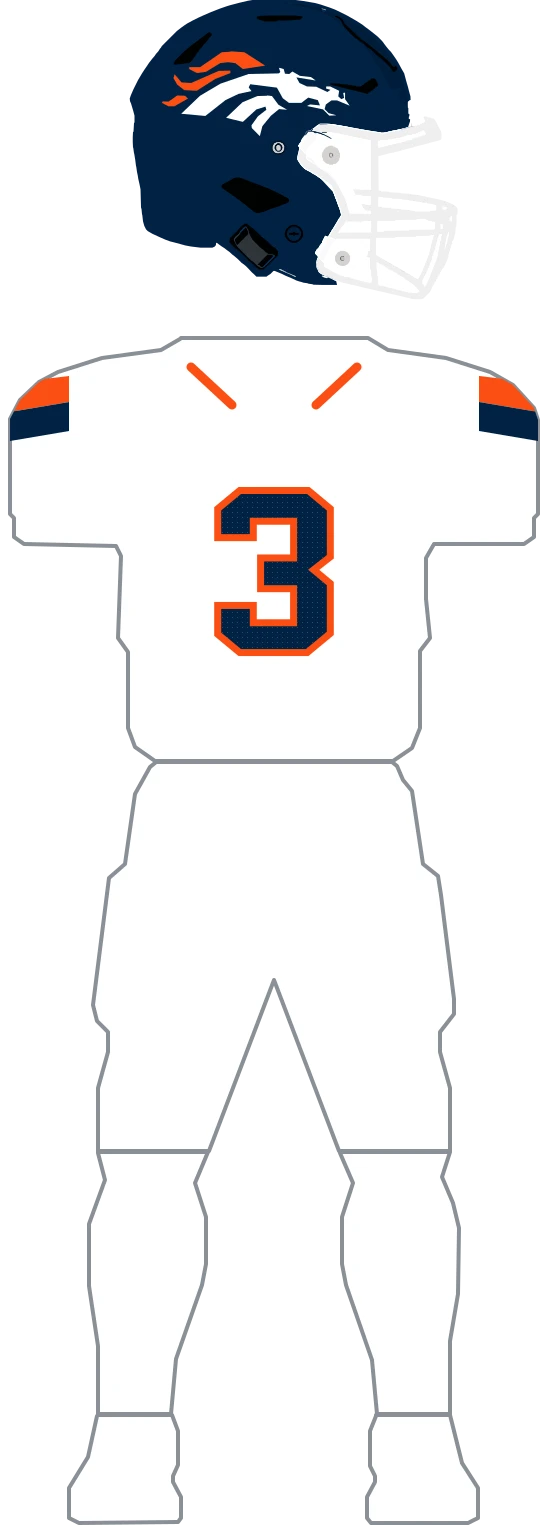
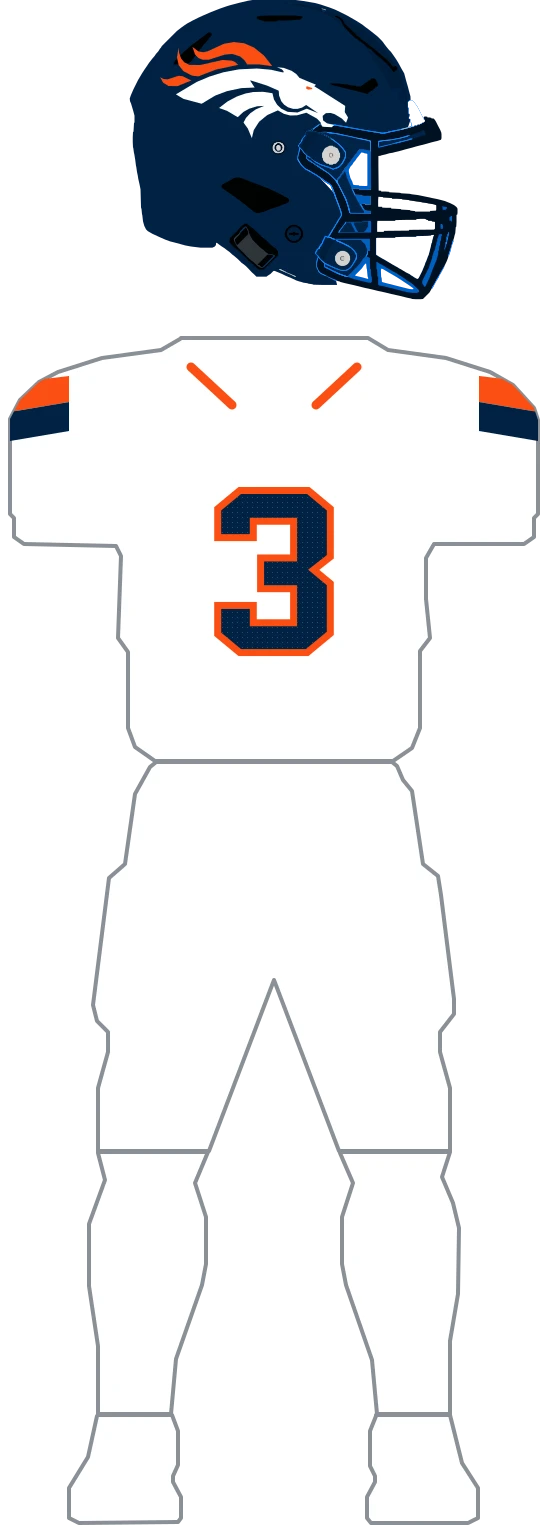
fix(uniforms): re-author Broncos helmet horse (#736)
* fix(uniforms): re-author Broncos helmet horse

* fix(uniforms): correct Broncos helmet details

* fix(uniforms): enlarge Broncos helmet eye

Changed region(s): [[0.3036, 0.0, 0.8196, 0.2143]]

diff --git a/lib/uniforms/teams/broncos.ts b/lib/uniforms/teams/broncos.ts
@@ -24,9 +24,11 @@ export const BRONCOS_WHITE = '#FFFFFF';
 //   - The "D" is a keyline case: white traced as the union of white AND orange, with the orange "D"
 //     painted over it. The white bucking horse inside survives for free.
 export const BRONCOS_DECAL_MANE_PATH =
-  'M341.0,170.6 L368.3,172.5 L409.8,199.2 L365.2,206.1 L350.3,194.3 L335.4,192.4 L319.9,194.3 L291.4,211.7 L273.5,214.1 L258.0,206.1 L258.0,202.3 L279.6,202.3 L323.0,172.5 L340.4,171.3 Z M339.8,208.5 L340.4,214.1 L310.0,225.9 L272.8,249.6 L248.0,248.3 L233.8,237.1 L226.4,224.1 L228.8,216.6 L242.5,232.8 L261.7,234.0 L316.8,209.8 L339.1,209.2 Z M233.8,258.9 L249.3,259.5 L255.5,265.1 L228.2,280.6 L216.4,280.6 L203.4,273.8 L204.7,270.7 L216.4,271.3 L233.2,259.5 Z';
+  'M346.3,152.0 L368.2,154.6 L387.5,163.1 L407.3,178.9 L424.0,200.3 L397.4,196.9 L373.8,196.9 L368.6,188.7 L360.1,181.1 L344.2,175.9 L329.2,177.2 L297.0,187.5 L285.0,187.5 L276.4,184.0 L269.5,176.8 L264.4,161.8 L276.4,170.8 L286.3,172.5 L295.3,170.4 L327.4,155.4 L345.9,152.4 Z M236.5,163.1 L237.8,174.2 L241.6,184.9 L248.1,192.6 L257.9,197.7 L279.4,198.1 L324.9,187.9 L342.9,189.2 L349.3,191.7 L355.8,197.7 L311.6,207.1 L276.0,220.8 L263.1,219.1 L245.9,210.1 L236.9,198.1 L233.5,183.2 L236.5,163.5 Z M235.6,219.5 L244.6,220.4 L262.2,228.9 L233.9,240.4 L216.3,240.0 L205.6,233.2 L200.0,222.5 L206.4,225.9 L214.6,226.8 L235.2,219.9 Z';
+export const BRONCOS_DECAL_EYE_PATH =
+  'M493.1,240.4 L504.7,244.3 L502.5,246.4 L495.7,247.3 L491.4,244.7 L492.7,240.9 Z';
 export const BRONCOS_DECAL_HORSE_PATH =
-  'M438.3,203.6 L446.9,206.1 L449.4,215.4 L458.1,216.0 L464.3,211.0 L479.2,219.7 L501.5,222.2 L510.8,229.0 L472.3,222.8 L478.5,234.0 L493.4,240.9 L512.0,241.5 L534.3,252.0 L540.5,247.7 L531.8,245.2 L531.8,240.9 L539.9,240.9 L557.8,249.6 L556.0,260.7 L562.2,266.3 L567.8,263.8 L565.9,253.9 L569.6,253.3 L569.6,266.3 L578.9,279.4 L553.5,268.8 L542.4,268.8 L531.2,276.9 L528.7,286.2 L536.8,294.3 L552.3,298.6 L538.0,299.3 L525.6,286.8 L493.4,280.0 L499.6,276.9 L519.4,278.8 L515.1,268.2 L495.9,263.2 L482.3,273.8 L457.5,273.8 L445.1,264.5 L433.3,243.3 L380.0,236.5 L376.9,242.7 L382.5,250.2 L356.5,255.8 L330.5,268.2 L290.2,299.9 L241.9,295.5 L279.6,259.5 L320.5,235.3 L376.9,216.0 L437.0,214.8 L440.1,212.3 L437.6,204.2 Z M414.1,258.9 L423.4,260.1 L436.4,277.5 L453.8,287.5 L437.6,286.2 L421.5,299.3 L404.2,320.4 L399.2,340.3 L383.1,324.1 L382.5,318.5 L395.5,300.5 L412.2,287.5 L410.4,281.2 L392.4,286.8 L365.2,311.7 L331.7,303.6 L364.5,272.5 L394.3,260.1 L413.5,259.5 Z';
+  'M433.0,202.4 L446.7,203.7 L463.0,209.7 L472.5,216.5 L478.5,223.8 L511.5,237.5 L508.1,240.4 L569.9,279.8 L569.0,292.1 L575.5,302.8 L574.6,305.8 L571.6,313.5 L563.0,305.0 L548.9,296.4 L540.7,293.9 L531.3,294.3 L524.8,299.8 L525.7,308.8 L533.8,314.8 L547.6,318.2 L542.9,322.5 L526.6,321.6 L523.5,320.8 L520.5,312.7 L513.7,305.4 L492.2,293.4 L473.8,298.6 L460.0,299.0 L447.2,295.6 L435.2,288.7 L414.1,298.1 L397.8,311.4 L387.1,328.0 L383.2,344.3 L375.1,325.0 L366.5,313.1 L371.6,303.7 L379.8,294.7 L391.4,286.6 L407.7,279.8 L393.5,280.6 L378.1,285.3 L366.5,291.7 L354.9,302.4 L333.5,289.6 L317.6,284.0 L334.7,270.8 L353.2,261.0 L370.4,255.0 L386.2,252.0 L405.5,251.6 L424.4,254.5 L427.4,266.9 L433.9,277.6 L442.0,285.3 L454.9,291.7 L474.6,293.0 L493.1,285.3 L515.8,294.3 L491.8,278.0 L483.6,283.2 L474.6,285.7 L465.6,285.7 L455.7,282.7 L447.6,277.2 L442.0,270.4 L437.7,259.2 L436.9,249.4 L413.7,239.2 L381.1,228.9 L379.8,229.3 L388.8,243.0 L361.8,244.3 L333.5,250.3 L309.9,259.2 L282.8,275.5 L246.3,265.7 L231.3,256.7 L272.9,231.9 L298.3,221.2 L325.7,212.7 L357.5,206.7 L393.5,205.0 L421.4,207.5 L446.3,213.1 L446.7,210.5 L443.3,206.7 L433.4,202.4 Z';
 export const BRONCOS_CRUSH_DECAL_KEYLINE_PATH =
   'M329.2,147.6 L427.1,149.5 L332.9,149.5 L326.7,155.1 L326.7,176.9 L328.6,148.3 Z M334.2,152.6 L433.9,153.2 L458.1,160.1 L483.5,180.6 L496.5,204.2 L495.9,219.1 L492.8,204.2 L487.2,212.3 L475.4,212.3 L474.2,205.4 L467.4,205.4 L446.3,188.0 L432.7,182.4 L428.4,168.2 L399.2,168.2 L397.4,175.0 L382.5,175.0 L381.3,179.3 L388.7,181.8 L372.6,183.7 L373.8,214.8 L368.3,212.9 L365.8,216.6 L373.2,231.5 L382.5,234.0 L378.2,240.9 L382.5,258.9 L382.5,294.3 L440.1,297.4 L454.4,288.1 L460.0,296.2 L466.8,296.2 L466.8,299.9 L458.7,301.8 L459.3,317.9 L474.8,311.1 L489.7,290.6 L486.0,282.5 L480.4,296.2 L481.6,258.3 L467.4,248.3 L466.1,229.0 L474.8,227.2 L468.0,232.8 L485.4,234.0 L483.5,238.4 L491.6,243.3 L491.6,278.8 L495.9,274.4 L497.7,237.7 L496.5,278.1 L475.4,312.3 L457.5,324.1 L438.9,327.9 L332.3,327.2 L331.1,298.0 L348.4,292.4 L348.4,191.8 L344.1,184.9 L331.7,181.8 L333.6,153.2 Z M405.4,178.1 L412.2,179.3 L404.2,186.2 L411.0,190.5 L420.3,179.3 L421.5,193.6 L436.4,204.2 L435.8,207.3 L424.0,207.3 L412.2,199.8 L409.1,209.2 L426.5,228.4 L424.0,237.7 L440.1,246.4 L442.6,261.4 L448.8,263.8 L462.4,256.4 L471.7,261.4 L471.1,268.8 L464.9,261.4 L455.6,263.2 L440.7,276.3 L433.9,292.4 L394.9,292.4 L394.9,278.8 L399.2,271.9 L394.9,267.0 L393.7,247.1 L388.1,242.1 L395.5,235.3 L397.4,244.6 L406.0,237.7 L406.7,230.3 L389.9,215.4 L394.9,209.8 L402.9,214.8 L404.8,208.5 L399.9,200.5 L386.2,202.3 L384.4,197.4 L393.7,193.6 L388.1,184.9 L398.0,187.4 L404.8,178.7 Z M500.2,206.1 L502.1,236.5 L495.9,230.3 L473.6,223.5 L481.6,221.0 L495.9,224.7 L502.1,218.5 L500.2,206.7 Z';
 export const BRONCOS_CRUSH_DECAL_D_PATH =

diff --git a/lib/uniforms/teams/broncos.parts.ts b/lib/uniforms/teams/broncos.parts.ts
@@ -23,6 +23,7 @@ import {
   BRONCOS_CRUSH_BAND_TOP_LEFT,
   BRONCOS_CRUSH_BAND_TOP_RIGHT,
   BRONCOS_CRUSH_DECAL_D_PATH,
+  BRONCOS_DECAL_EYE_PATH,
   BRONCOS_CRUSH_DECAL_KEYLINE_PATH,
   BRONCOS_DECAL_HORSE_PATH,
   BRONCOS_DECAL_MANE_PATH,
@@ -85,6 +86,7 @@ function horseDecal(): PartLayer[] {
   return [
     fill('broncos-decal-under', 'helmet', BRONCOS_DECAL_MANE_PATH, 'orange'),
     fill('broncos-decal-over', 'helmet', BRONCOS_DECAL_HORSE_PATH, 'white'),
+    fill('broncos-decal-eye', 'helmet', BRONCOS_DECAL_EYE_PATH, 'orange'),
   ];
 }
 
@@ -98,11 +100,11 @@ function crushDecal(): PartLayer[] {
 
 // The modern navy shell with the horse decal — one object, shared by home, away and orange-alt.
 //
-// White cage. The modern navy shell wears a white facemask (named sources; also the classic
-// navy-helmet era). The white cage reads cleanly against the navy shell.
+// The current-season GUD helmet composite shows a navy facemask on every modern kit; the
+// Orange Crush reference below is the exception and retains its light cage.
 const HELMET_NAVY_HORSE: UniformPart = {
   base: 'navy',
-  facemask: 'white',
+  facemask: 'navy',
   layers: horseDecal(),
 };
 

diff --git a/scripts/uniform-draw/broncos_horse.py b/scripts/uniform-draw/broncos_horse.py
@@ -1,0 +1,114 @@
+"""Regenerates the Denver Broncos current helmet horse in ``broncos.ts``.
+
+    python3 scripts/uniform-draw/broncos_horse.py            # print the paths
+    python3 scripts/uniform-draw/broncos_horse.py --check    # verify broncos.ts matches
+
+This is a contour trace from the approved ``Denver Broncos logo.svg`` reference, not a
+hand-drawn reconstruction. The source is the fair-use, trademarked Wikipedia mark recorded
+in the vault's 2026-09-03 licence audit; it is used as a visual/vector reference only and
+stays in the sibling ``nfl-uniform-refs`` checkout. The internal GUD 2025 composite is used
+only to retain the helmet placement: the visible decal occupies the existing raw helmet box
+x=203..579, y=148..340. The source's navy body is the shell-colored negative space, so only
+the orange mane and white head are emitted as two color layers.
+
+Topology was measured after true-aspect ImageMagick rasterisation: the source has one navy
+body component, three orange mane components, and one white head component; the apparent eye
+and nostril are holes/shell-colored gaps, not additional foreground paths. The SVG is rendered
+at its true aspect because qlmanage's square thumbnail would distort this wide mark. Both
+colored masks are traced in one shared art bounding box so their relative placement survives
+mechanically. Numeric bbox/extents comparison against the normalized reference and the
+generated module's ``--check`` are part of the local verification workflow.
+"""
+
+import subprocess
+import tempfile
+from pathlib import Path
+
+from PIL import Image  # noqa: E402
+
+from drawkit import Box, components, main, mask, trace  # noqa: E402
+
+REF = Path.home() / 'Documents/GitHubProjects/nfl-uniform-refs/broncos/broncos-mark.svg'
+MODULE = Path(__file__).resolve().parents[2] / 'lib' / 'uniforms' / 'teams' / 'broncos.ts'
+BOX = Box(200.0, 152.0, 375.9, 192.7)
+MIN_REGION = 100
+EPS = 3.0
+EYE_SCALE_X = 1.6
+
+
+def render_reference():
+    with tempfile.TemporaryDirectory() as tmp:
+        rendered = Path(tmp) / 'broncos.png'
+        subprocess.run(
+            ['magick', '-background', 'white', '-density', '300', str(REF), str(rendered)],
+            check=True,
+            capture_output=True,
+        )
+        return Image.open(rendered).convert('RGB')
+
+
+def orange(c):
+    return c[0] > 210 and c[1] < 130 and c[2] < 80
+
+
+def white(c):
+    return min(c) > 210
+
+
+def shared_masks():
+    im = render_reference()
+    orange_mask, w, h = mask(im, orange)
+    white_mask, _, _ = mask(im, white)
+    orange_regions = components(orange_mask, w, h, MIN_REGION)
+    # The page background is the white component touching the crop border; the horse is the
+    # separate enclosed white component. Keeping only that component prevents the canvas from
+    # becoming a traced rectangle.
+    white_regions = [
+        cells
+        for cells in components(white_mask, w, h, MIN_REGION)
+        if not any(x in (0, w - 1) or y in (0, h - 1) for x, y in cells)
+    ]
+    all_regions = orange_regions + white_regions
+    cells = [cell for region in all_regions for cell in region]
+    x0 = min(x for x, _ in cells)
+    y0 = min(y for _, y in cells)
+    x1 = max(x for x, _ in cells) + 1
+    y1 = max(y for _, y in cells) + 1
+    orange_cells = {cell for cells in orange_regions for cell in cells}
+    white_cells = set(white_regions[0])
+    crop = lambda cells: [
+        [1 if (x + x0, y + y0) in cells else 0 for x in range(x1 - x0)]
+        for y in range(y1 - y0)
+    ]
+    return crop(orange_cells), crop(white_cells), x1 - x0, y1 - y0
+
+
+def build():
+    orange_mask, white_mask, w, h = shared_masks()
+    orange_regions = components(orange_mask, w, h, MIN_REGION)
+    mane_cells = {cell for region in orange_regions[:3] for cell in region}
+    source_eye = set(orange_regions[3])
+    eye_center = sum(x for x, _ in source_eye) / len(source_eye)
+    eye_cells = {
+        (round(eye_center + (x - eye_center) * EYE_SCALE_X), y) for x, y in source_eye
+    }
+    eye_cells = {
+        (x, y)
+        for y in {row for _, row in eye_cells}
+        for x in range(
+            min(x0 for x0, y0 in eye_cells if y0 == y),
+            max(x1 for x1, y1 in eye_cells if y1 == y) + 1,
+        )
+    }
+    to_mask = lambda cells: [
+        [1 if (x, y) in cells else 0 for x in range(w)] for y in range(h)
+    ]
+    return {
+        'BRONCOS_DECAL_MANE_PATH': trace(to_mask(mane_cells), w, h, BOX, eps=EPS, minsize=MIN_REGION),
+        'BRONCOS_DECAL_EYE_PATH': trace(to_mask(eye_cells), w, h, BOX, eps=EPS, minsize=10),
+        'BRONCOS_DECAL_HORSE_PATH': trace(white_mask, w, h, BOX, eps=EPS, minsize=MIN_REGION),
+    }
+
+
+if __name__ == '__main__':
+    main(build, MODULE)
